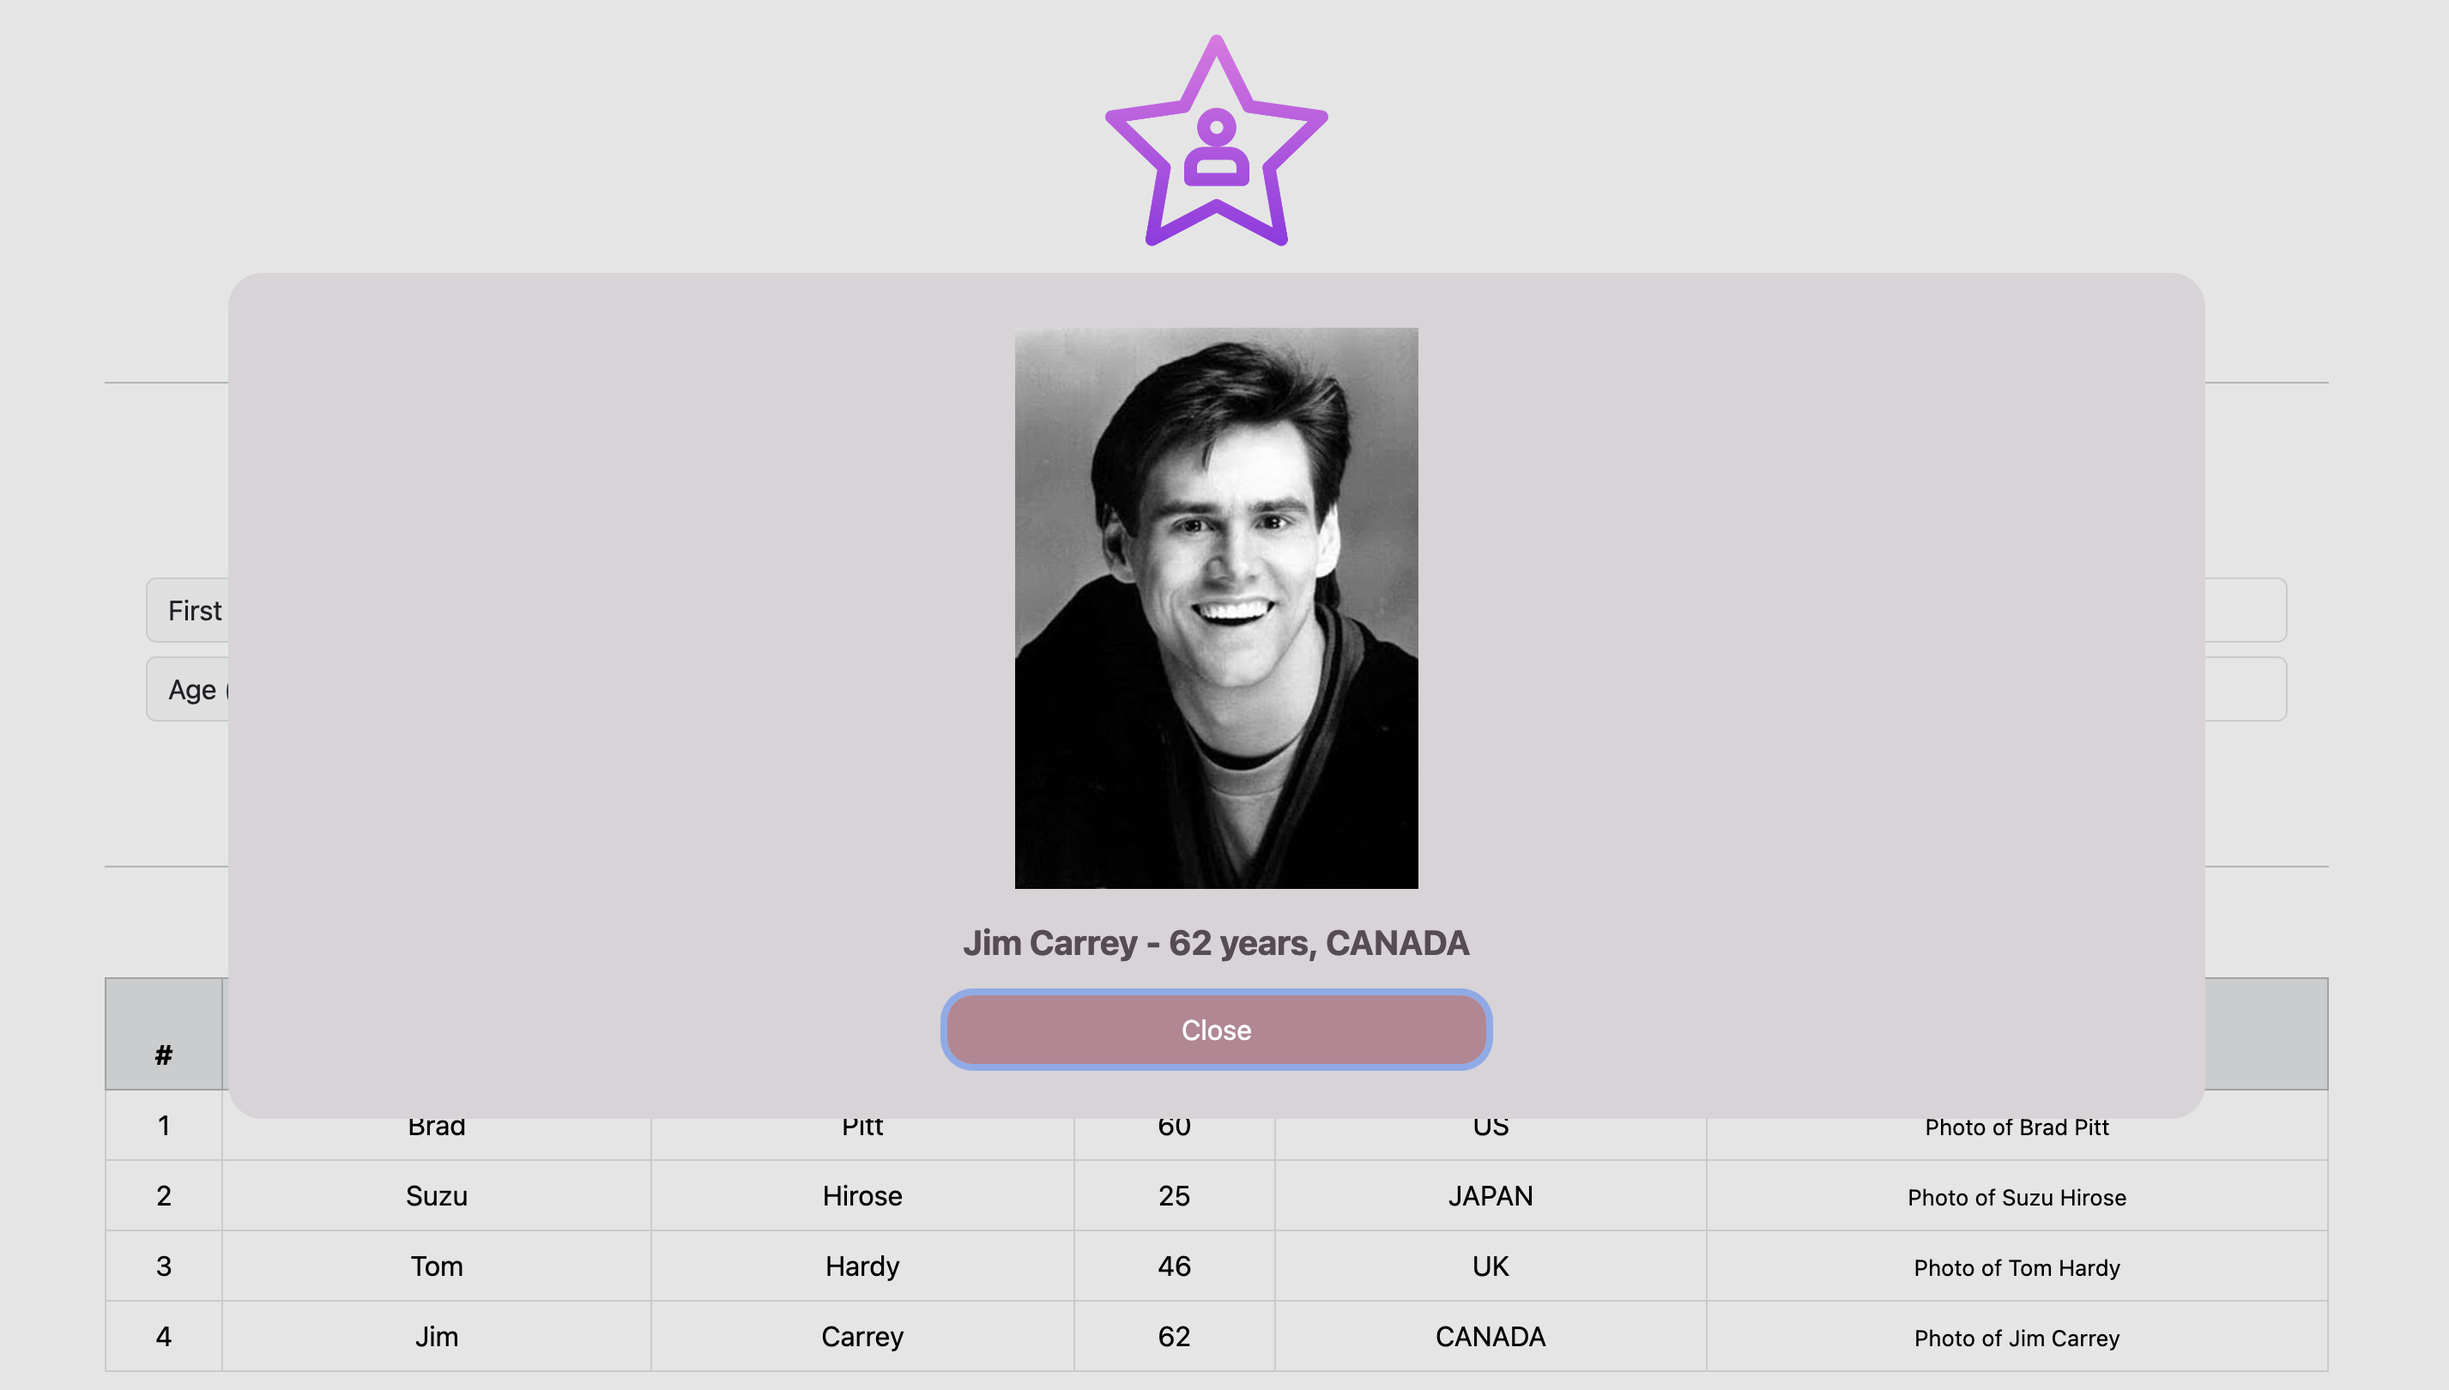
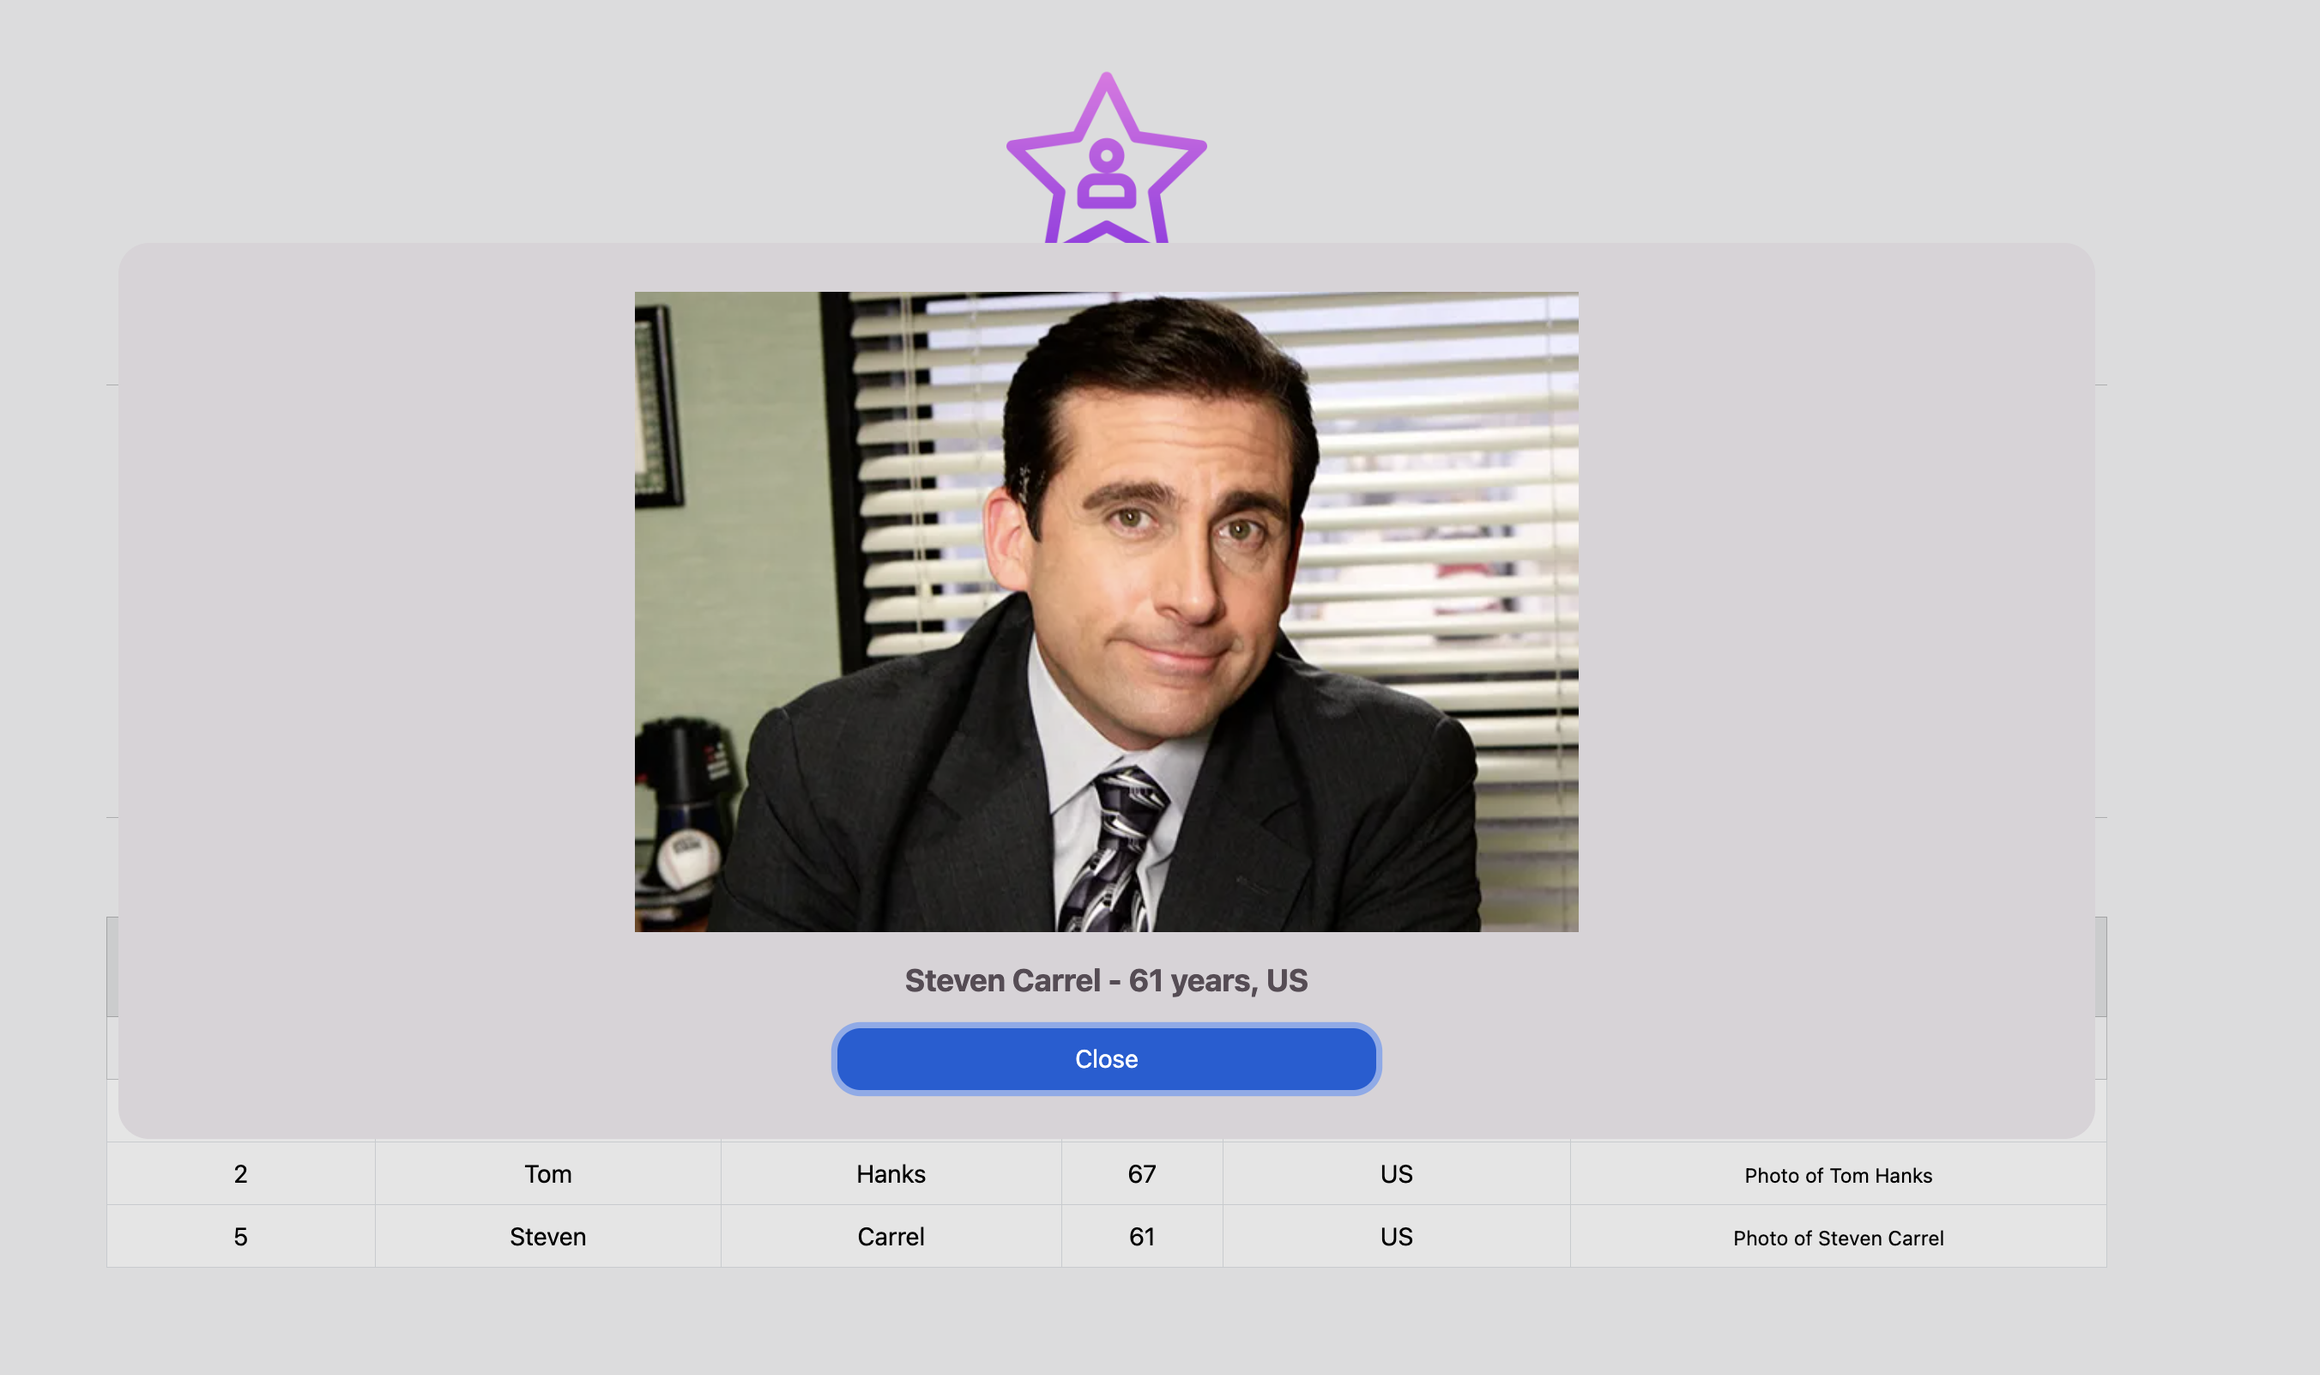
fixed photo validation

diff --git a/script.js b/script.js
@@ -76,7 +76,7 @@ location.reload();
 
 // -----------------------------CREATE-------------------------------// 
 //When "Add" is pressed
-buttonElement.addEventListener("click", ()=>{
+buttonElement.addEventListener("click", ()=> {
     //When the "Add" button is clicked, a new person object is created from the form inputs.
     const person = {};
     person.firstName = document.getElementById(`firstNameInput`).value;
@@ -123,39 +123,55 @@ buttonElement.addEventListener("click", ()=>{
         addResult.style.display = 'none';
     }
 
-// Validations: Duplicate person check is performed based on contact details.
-const duplicatePerson = people.find((existingPerson) =>
-    existingPerson.firstName.toLowerCase() === person.firstName.toLowerCase() &&
-    existingPerson.lastName.toLowerCase() === person.lastName.toLowerCase()
-);
-if (duplicatePerson) {
-    addResult.innerText = `A person with the same contact details already exists!`;
-    addResult.style.display = 'block';
-    addResult.style.backgroundColor = '#cf7a847f';
-    return;
-}
-                    // *disabeled as after deleting 2no. contact, new contact should be have 2id but it has 3id. Numeration is wrong: 1,3,4,5... Instead using (person.number = people.length + 1).
-                    // *person.number = currentNumeration; // assigns a number property to the person object.
-                    // *currentNumeration++; // After assigning the number to the current person, currentNumeration is incremented by 1.
-                    // localStorage.setItem("currentNumeration", "" + currentNumeration );
+   // Validate image URL
+   const imageElement = new Image();
+   imageElement.onerror = function() {
+       addResult.innerText = "Invalid image URL";
+       addResult.style.backgroundColor = '#cf7a847f';
+       addResult.style.display = 'block';
+   };
+   imageElement.onload = function() {
+       if (imageElement.width < 400 || imageElement.height < 400 || imageElement.width > 1000 || imageElement.height > 1000 ) {
+           addResult.innerText = "Image should be minimum 500x500px and maximum 1000x1000px";
+           addResult.style.backgroundColor = '#cf7a847f';
+           addResult.style.display = 'block';
+       } else {
+           // Validations: Duplicate person check is performed based on contact details.
+           const duplicatePerson = people.find((existingPerson) =>
+               existingPerson.firstName.toLowerCase() === person.firstName.toLowerCase() &&
+               existingPerson.lastName.toLowerCase() === person.lastName.toLowerCase()
+           );
+           if (duplicatePerson) {
+               addResult.innerText = `A person with the same contact details already exists!`;
+               addResult.style.display = 'block';
+               addResult.style.backgroundColor = '#cf7a847f';
+               return;
+           }
+                                // *disabeled as after deleting 2no. contact, new contact should be have 2id but it has 3id. Numeration is wrong: 1,3,4,5... Instead using (person.number = people.length + 1).
+                                // *person.number = currentNumeration; // assigns a number property to the person object.
+                                // *currentNumeration++; // After assigning the number to the current person, currentNumeration is incremented by 1.
+                                // localStorage.setItem("currentNumeration", "" + currentNumeration );
 
-// This will assign a unique number to each person based on the length of the people array. The +1 is added because array indices start from 0, but you want to display a human-readable number starting from 1.
-person.number = people.length + 1;
+           // This will assign a unique number to each person based on the length of the people array. The +1 is added because array indices start from 0, but you want to display a human-readable number starting from 1.
+           person.number = people.length + 1;
 
-// If all checks pass, the person object is added to people array, and the table (generateTableContent) is updated.
-people.push(person);
+           // If all checks pass, the person object is added to people array, and the table (generateTableContent) is updated.
+           people.push(person);
 
-    addResult.style.display = 'block';
-    addResult.innerText = 'New Person has been successfully added!';
-    addResult.style.backgroundColor = '#1a995750';
-    addResult.style.padding = '10px';
+           addResult.style.display = 'block';
+           addResult.innerText = 'New Person has been successfully added!';
+           addResult.style.backgroundColor = '#1a995750';
+           addResult.style.padding = '10px';
 
-generateTableContent (people); //calls the generateTableContent function, passing the updated people array as an argument. The purpose of this function is to generate HTML content for displaying the list of people in a table. 
-formElement.reset(); //resets the form (formElement) after adding a person. It clears the input fields in the form.
-         
-//When the array itself is updated - the localstorage data must be updated 
-localStorage.setItem("people", JSON.stringify(people));
-}); 
+           generateTableContent(people); // Calls the generateTableContent function, passing the updated people array as an argument.
+           formElement.reset(); // Resets the form after adding a person. It clears the input fields in the form.
+
+           // Update local storage
+           localStorage.setItem("people", JSON.stringify(people));
+       }
+   };
+   imageElement.src = person.image;
+});
 
 // -----------------------------READ-------------------------------// 
 // displaying the list of people in a table
@@ -173,7 +189,7 @@ function generateTableContent (people){
         </tr>`;
     }
     const tbody = document.querySelector(`table tbody`)
-    tbody.innerHTML += dynamicHTML;
+    tbody.innerHTML = dynamicHTML;
 }
 
 // ------------------------------MODAL-------------------------------// 
@@ -309,7 +325,7 @@ updateElement.addEventListener("click", () => {
     // console.log (updatedPerson);
 
    //Validation
-    if (!updatedPerson.firstName || !updatedPerson.lastName || !updatedPerson.age || !updatedPerson.nationality) {
+    if (!updatedPerson.firstName || !updatedPerson.lastName || !updatedPerson.age || !updatedPerson.nationality ||  !updatedPerson.image ) {
         updateResult.innerText = "Something is missing. Please fill in the complete form!";
         updateResult.style.backgroundColor = '#cf7a847f';
         updateResult.style.display = 'block';
@@ -345,43 +361,62 @@ updateElement.addEventListener("click", () => {
         updateResult.style.display = 'none';
     }
 
-    // Validations: Duplicate person check is performed based on contact details.
-    const duplicatePerson = people.find((existingPerson) =>
-    existingPerson.firstName.toLowerCase() === updatedPerson.firstName.toLowerCase() &&
-    existingPerson.lastName.toLowerCase() === updatedPerson.lastName.toLowerCase() &&
-    existingPerson.age === updatedPerson.age &&
-    existingPerson.nationality.toLowerCase() === updatedPerson.nationality.toLowerCase() &&
-    existingPerson.image.toLowerCase() === updatedPerson.image.toLowerCase()
-    );
-    
-    if (duplicatePerson) {
-        updateResult.innerText = 'Updated details match another existing contact!';
-        updateResult.style.backgroundColor = '#cf7a847f';
-        updateResult.style.display = 'block';
-        return;
-    } else {
-        updateResult.style.display = 'none';
-    }
-
-    // Update the person in the people array at the index foundIndexUpdate.
-    people[foundIndexUpdate] = updatedPerson;
-
-    updateResult.style.display = 'block';
-    updateResult.innerText = 'Person has been successfully updated!';
-    updateResult.style.backgroundColor = '#1a995750';
-
-    // Reset the form  (instead writing manually, use function)
-    nullifyInputValues()
-    // document.querySelector("#numberInputUpdate").value = "";
-    // document.getElementById("updateFirstNameInput").value = "";
-    // document.getElementById("updateLastNameInput").value = "";
-    // document.getElementById("updateAgeInput").value = "";
-    // document.getElementById("updateNationalityInput").value = "";
-
-    updateForm.style.display = 'none'; 
-    findElement.style.display = 'block'; 
-    updateElement.style.display = 'none'; 
-});
+     // Validate image URL
+     const imageElement = new Image();
+     imageElement.onerror = function() {
+         updateResult.innerText = "Invalid image URL";
+         updateResult.style.backgroundColor = '#cf7a847f';
+         updateResult.style.display = 'block';
+     };
+     imageElement.onload = function() {
+         if (imageElement.width < 400 || imageElement.height < 400 || imageElement.width > 1000 || imageElement.height > 1000) {
+             updateResult.innerText = "Image should be minimum 500x500px and maximum 1000x1000px";
+             updateResult.style.backgroundColor = '#cf7a847f';
+             updateResult.style.display = 'block';
+         } else {
+             // Validations: Duplicate person check is performed based on contact details.
+             const duplicatePerson = people.find((existingPerson) =>
+                 existingPerson.firstName.toLowerCase() === updatedPerson.firstName.toLowerCase() &&
+                 existingPerson.lastName.toLowerCase() === updatedPerson.lastName.toLowerCase() &&
+                 existingPerson.age === updatedPerson.age &&
+                 existingPerson.nationality.toLowerCase() === updatedPerson.nationality.toLowerCase() &&
+                 existingPerson.image.toLowerCase() === updatedPerson.image.toLowerCase()
+             );
+             
+             if (duplicatePerson) {
+                 updateResult.innerText = 'Updated details match another existing contact!';
+                 updateResult.style.backgroundColor = '#cf7a847f';
+                 updateResult.style.display = 'block';
+                 return;
+             } else {
+                 updateResult.style.display = 'none';
+             }
+ 
+             // Update the person in the people array at the index foundIndexUpdate.
+             people[foundIndexUpdate] = updatedPerson;
+ 
+             updateResult.style.display = 'block';
+             updateResult.innerText = 'Person has been successfully updated!';
+             updateResult.style.backgroundColor = '#1a995750';
+ 
+             // Reset the form  (instead writing manually, use function)
+             nullifyInputValues();
+             // document.querySelector("#numberInputUpdate").value = "";
+             // document.getElementById("updateFirstNameInput").value = "";
+             // document.getElementById("updateLastNameInput").value = "";
+             // document.getElementById("updateAgeInput").value = "";
+             // document.getElementById("updateNationalityInput").value = "";
+ 
+             updateForm.style.display = 'none'; 
+             findElement.style.display = 'block'; 
+             updateElement.style.display = 'none'; 
+ 
+             //When the array itself is updated - the localstorage data must be updated 
+             localStorage.setItem("people", JSON.stringify(people));
+         }
+     };
+     imageElement.src = updatedPerson.image;
+ });
 
 // ------------------------CLEAR INPUTS------------------------------// 
 function nullifyInputValues (){
@@ -398,3 +433,24 @@ function nullifyInputValues (){
         //When the array itself is updated - the localstorage data must be updated 
         localStorage.setItem("people", JSON.stringify(people));
 }
+
+// ------------------------HIDE NOTES when clicked------------------------------// 
+document.addEventListener("DOMContentLoaded", function () {
+    // Get the add-result, update-result, and delete-result paragraphs
+    const addResult = document.querySelector('.add-result');
+    const updateResult = document.querySelector('.update-result');
+    const deleteResult = document.querySelector('.delete-result');
+
+    function hideResult(result) {
+        result.style.display = 'none';
+    }
+    addResult.addEventListener('click', function () {
+        hideResult(addResult);
+    });
+    updateResult.addEventListener('click', function () {
+        hideResult(updateResult);
+    });
+    deleteResult.addEventListener('click', function () {
+        hideResult(deleteResult);
+    });
+});

diff --git a/dynamic-table.html b/dynamic-table.html
@@ -47,8 +47,6 @@
                         <th>Nationality</th>
                         <th>Image <span><br>(Click to see Image)</span></th>
                     </tr>
-                </thead>
-                <tbody>
                     <tr class="table-light">
                         <td>Example</td>
                         <td>Jim</td>
@@ -57,6 +55,16 @@
                         <td>CANADA</td>
                         <td>Image Url</td>      
                     </tr>    
+                </thead>
+                <tbody>
+                    <!-- <tr class="table-light">
+                        <td>Example</td>
+                        <td>Jim</td>
+                        <td>Carrey</td>
+                        <td>62</td>
+                        <td>CANADA</td>
+                        <td>Image Url</td>      
+                    </tr>     -->
                 </tbody>
             </table>
         </div>

diff --git a/style.css b/style.css
@@ -1,7 +1,6 @@
 body {
     background-color: rgba(218, 215, 220, 0.249);
 }
-
 img {
     width: 10%;
 }
@@ -45,8 +44,7 @@ input, .photoLink {
     transition: transform 0.9s ease-in-out;
     opacity: 0.8;
 } 
-.butn:active,
-.butn:focus {
+.butn:active {
     background-color: rgba(161, 83, 104, 0.615)!important;
     color: rgb(255, 255, 255)!important;
 }
@@ -83,6 +81,9 @@ input, .photoLink {
     padding: 12px !important;
     overflow: hidden;
 }
+.table-light {
+    cursor:none;
+}
 #update-form {
     display: none;
 }
@@ -99,7 +100,7 @@ input, .photoLink {
     background-color:  rgb(216, 211, 215);
 }
 .celebrityImage {
-    width: 30%;
+    width: 70%;
 }
 span {
     font-size: 13px;

diff --git a/README.MD b/README.MD
@@ -6,6 +6,7 @@ Responsive CRUD data table created with javascript & bootstrap. Practising "DOM"
 
 
 <div style="text-align: center;">
-    <img src="./images/table.png" alt="table" style="border-radius: 10px; display: inline-block;" />
+    <img src="./images/main.png" alt="table" style="border-radius: 10px; display: inline-block;" />
+    <img src="./images/table.png" alt="modal" style="border-radius: 10px; display: inline-block;" />
     <img src="./images/modal.png" alt="modal" style="border-radius: 10px; display: inline-block;" />
 </div>
